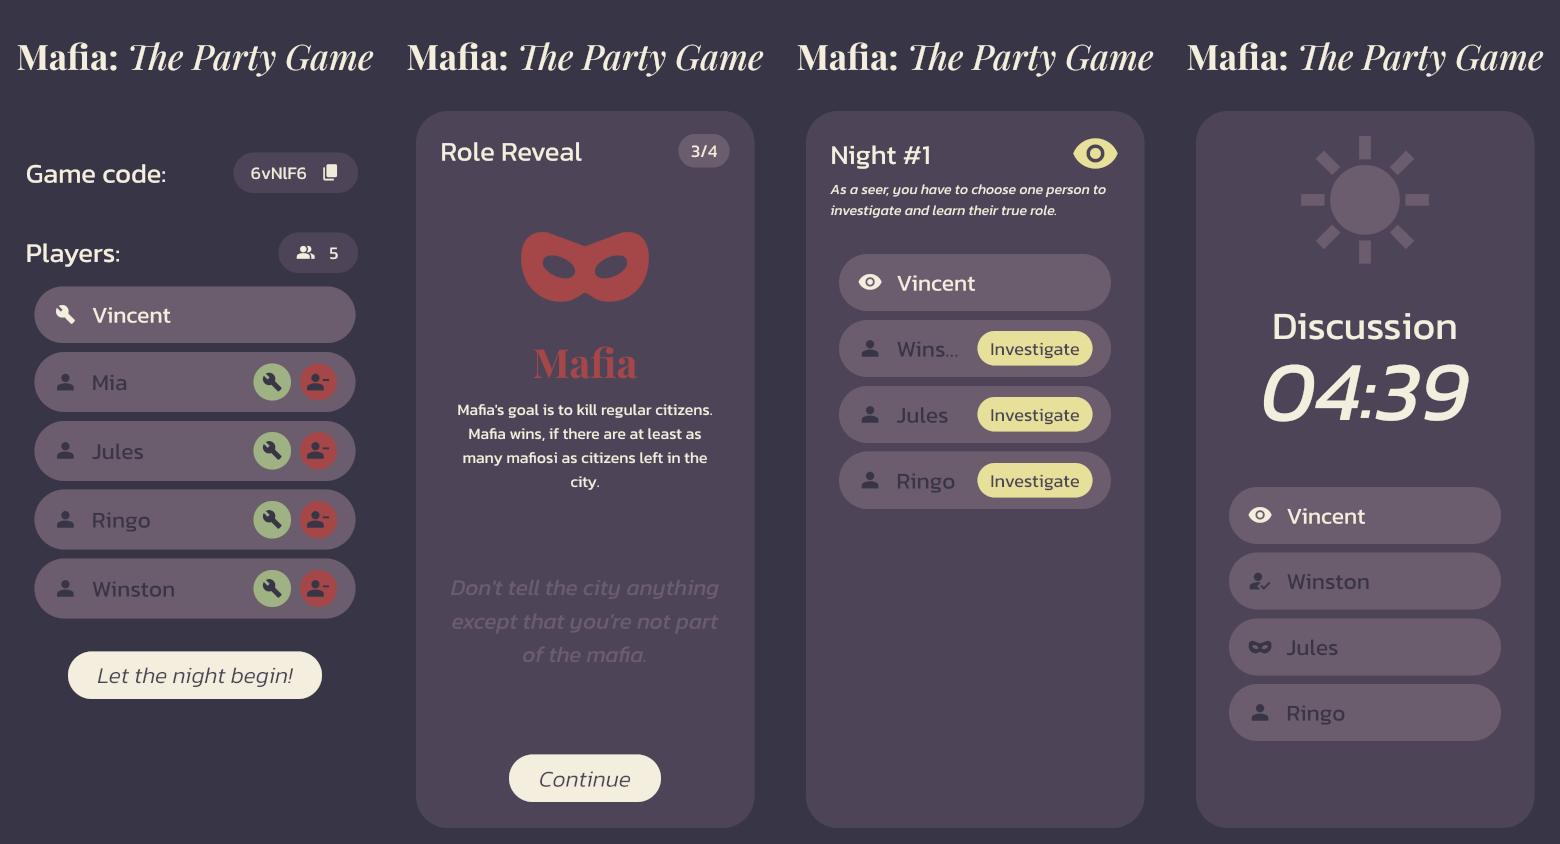
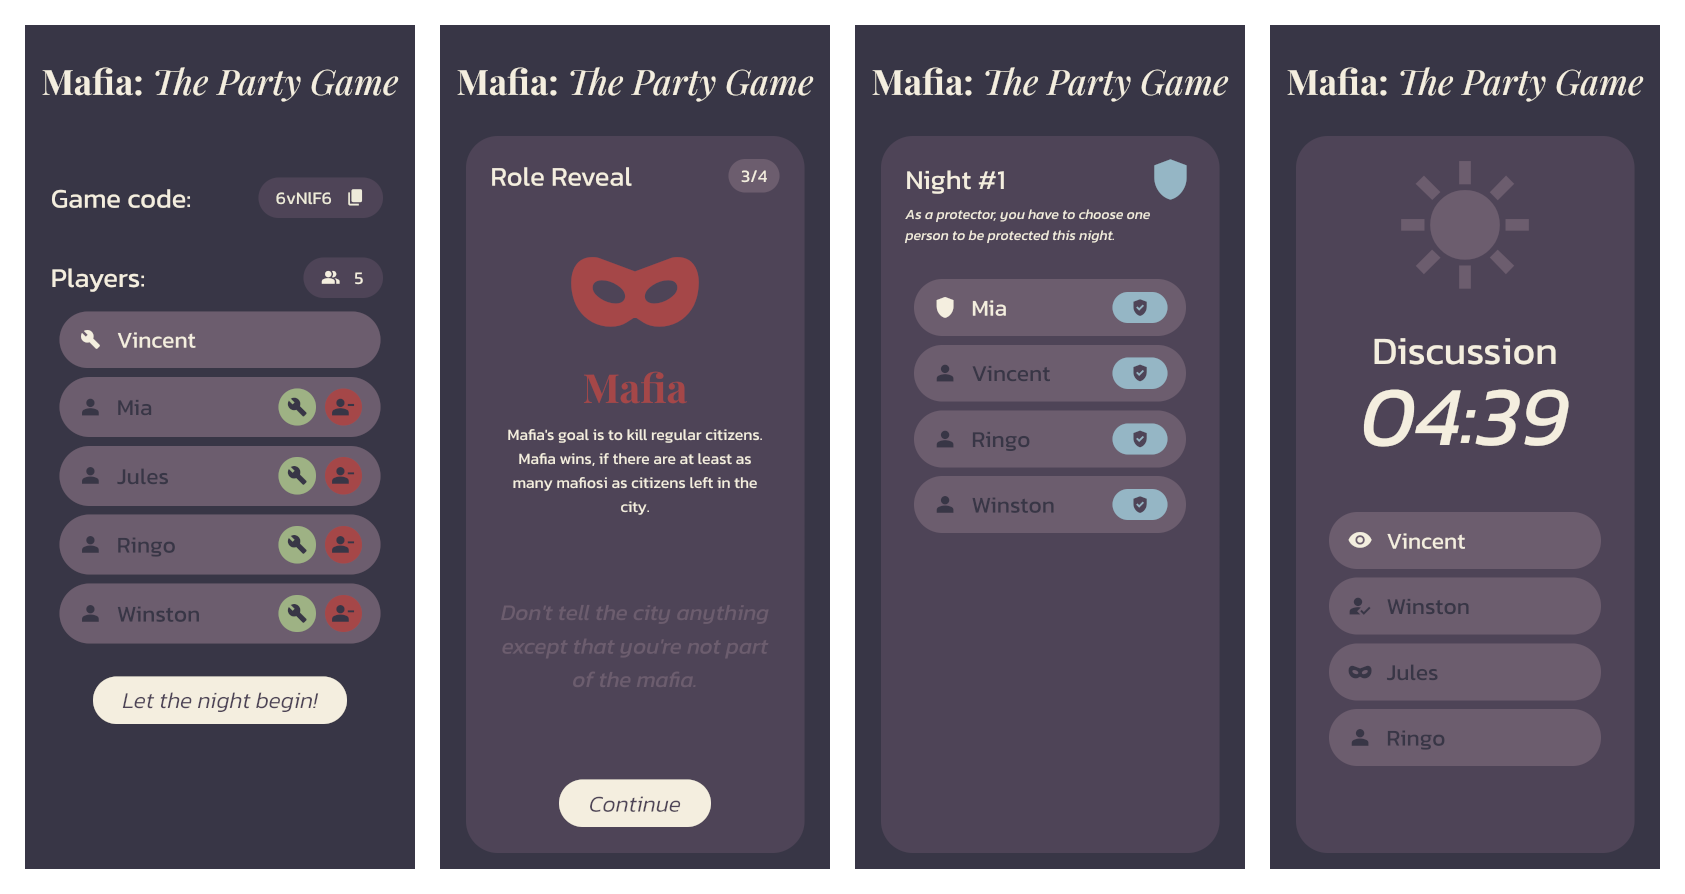
Fixed styling problems, added information to README and updated the image.

diff --git a/frontend/src/lib/components/modes/seer_pick/SeerPickPill.svelte b/frontend/src/lib/components/modes/seer_pick/SeerPickPill.svelte
@@ -1,5 +1,6 @@
 <script lang="ts">
   import { playerState, sendMessage } from "../../../../stores";
+  import Icon from "../../../icons/Icon.svelte";
   import PlayerListPill from "../../PlayerListPill.svelte";
 
   export let playerId: number;
@@ -17,7 +18,7 @@
 {#if playerId !== $playerState.id}
   <div class="seer-pick-pill">
     <PlayerListPill isClickable={true} on:player-list-pill-click={handleClick}>
-      Investigate
+      <Icon name="search" />
     </PlayerListPill>
   </div>
 {/if}

diff --git a/frontend/src/lib/components/modes/protector_pick/ProtectorPickPill.svelte b/frontend/src/lib/components/modes/protector_pick/ProtectorPickPill.svelte
@@ -1,5 +1,6 @@
 <script lang="ts">
   import { sendMessage } from "../../../../stores";
+  import Icon from "../../../icons/Icon.svelte";
   import PlayerListPill from "../../PlayerListPill.svelte";
 
   export let playerId: number;
@@ -16,7 +17,7 @@
 
 <div class="protector-pick-pill">
   <PlayerListPill isClickable={true} on:player-list-pill-click={handleClick}>
-    Protect
+    <Icon name="verified_user" />
   </PlayerListPill>
 </div>
 

diff --git a/frontend/src/lib/views/Lobby.svelte b/frontend/src/lib/views/Lobby.svelte
@@ -4,11 +4,8 @@
   import { view, sendMessage, playerState } from "../../stores";
   import PlayerList from "../components/PlayerList.svelte";
   import LobbyActionsButtons from "../components/modes/lobby/LobbyActionsButtons.svelte";
-  import { afterUpdate } from "svelte";
 
   $: playerCount = $view.data.players.length;
-
-  afterUpdate(() => console.log($view));
 
   function gameStart() {
     sendMessage({

diff --git a/frontend/src/lib/views/modes/day_vote/DayVoteMainView.svelte b/frontend/src/lib/views/modes/day_vote/DayVoteMainView.svelte
@@ -78,9 +78,9 @@
 
 <div class="bottom-box">
   {#if bottomText !== ""}
-    <div>
+    <span>
       {@html bottomText}
-    </div>
+    </span>
   {/if}
   {#if $view.data.mode === "moderatorInfo" || $view.data.mode === "moderatorResult"}
     <button
@@ -103,6 +103,7 @@
     display: flex;
     flex-direction: column;
     align-items: center;
+    text-align: center;
 
     gap: 1em;
   }

diff --git a/backend/staticfiles/styles.css b/backend/staticfiles/styles.css
@@ -57,6 +57,12 @@ body {
   font-size: clamp(1.1rem, 4vw, 1.4rem);
 }
 
+@media screen and (max-height: 600px) and (min-aspect-ratio: 1/1) {
+  body {
+    height: auto;
+  }
+}
+
 ::selection {
   background: rgba(244, 238, 224, 0.2);
 }

diff --git a/frontend/src/lib/views/Dead.svelte b/frontend/src/lib/views/Dead.svelte
@@ -2,6 +2,4 @@
   import BigInfo from "../components/BigInfo.svelte";
 </script>
 
-<div class="game">
-  <BigInfo message="You died!" />
-</div>
+<BigInfo message="You died!" />

diff --git a/frontend/src/lib/components/PlayerListPill.svelte b/frontend/src/lib/components/PlayerListPill.svelte
@@ -26,7 +26,7 @@
     justify-content: center;
     align-items: center;
 
-    padding: 0.2em 0.7em;
+    padding: 0.3em 0.7em;
 
     border-radius: 2rem;
     border: none;

diff --git a/frontend/src/lib/components/Timer.svelte b/frontend/src/lib/components/Timer.svelte
@@ -78,5 +78,6 @@
   .timer {
     font-size: clamp(2.5rem, min(25vw, 10vh), 8rem);
     font-style: italic;
+    line-height: 0.7;
   }
 </style>

diff --git a/frontend/src/lib/views/Discussion.svelte b/frontend/src/lib/views/Discussion.svelte
@@ -57,7 +57,6 @@
   .header {
     font-size: clamp(1.8rem, 10vw, 3rem);
     margin: 0;
-    margin-bottom: -0.7em;
   }
 
   .buttons {

diff --git a/README.md b/README.md
@@ -58,7 +58,7 @@ For release, you can use:
 ```
 npm run build
 ```
-
+Before running the dev/build script, you might want to change WebSocket URL in `src/stores.ts`.
 ### Backend
 ```
 cd ../backend
